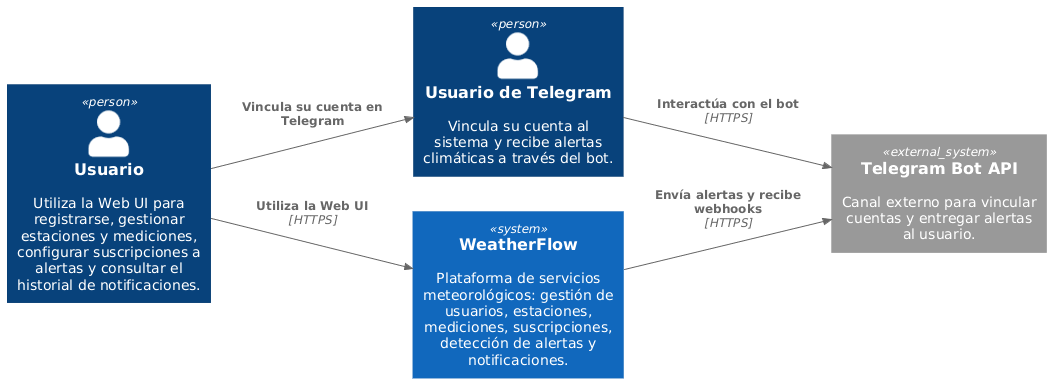
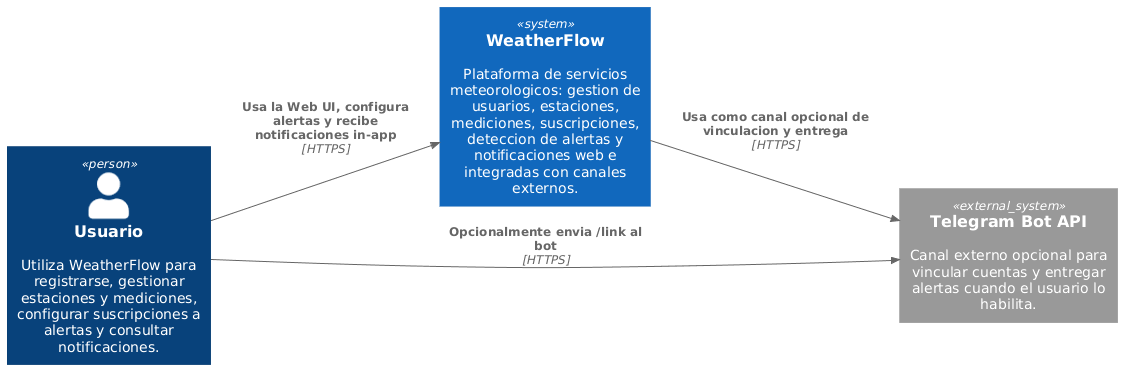
docs: fix C4 context and Atlas guidance

diff --git a/README.md b/README.md
@@ -1,6 +1,6 @@
 # WeatherFlow
 
-WeatherFlow is a distributed weather monitoring backend built with **NestJS 11**, **MongoDB**, and **RabbitMQ**. The repository contains two independently runnable applications: the API service for weather data and alert detection, and the Notification service for notification delivery workflows.
+WeatherFlow is a distributed weather monitoring backend built with **NestJS 11**, **MongoDB Atlas**, and **RabbitMQ**. The repository contains two independently runnable applications: the API service for weather data and alert detection, and the Notification service for notification delivery workflows.
 
 ## Tech Stack
 
@@ -8,7 +8,7 @@ WeatherFlow is a distributed weather monitoring backend built with **NestJS 11**
 | ------------------- | ------------------------------------------------------------ |
 | NestJS 11           | Application framework                                        |
 | TypeScript (strict) | Type-safe backend development                                |
-| MongoDB + Mongoose  | Document database access                                     |
+| MongoDB Atlas + Mongoose | Managed document database access                       |
 | RabbitMQ            | Asynchronous alert messaging                                 |
 | Swagger / OpenAPI   | Interactive API documentation                                |
 | Docker Compose      | Local API, Notification service, and RabbitMQ infrastructure |
@@ -21,6 +21,7 @@ WeatherFlow is a distributed weather monitoring backend built with **NestJS 11**
 | ----------------------------------------------------------------- | -------------------- |
 | [Node.js](https://nodejs.org/)                                    | 20+                  |
 | [Docker Desktop](https://www.docker.com/products/docker-desktop/) | Latest               |
+| MongoDB Atlas                                                     | Free tier is enough  |
 | npm                                                               | Bundled with Node.js |
 
 ## Installation
@@ -50,7 +51,7 @@ npm run start:notifications:dev
 npm run start:web:dev
 ```
 
-Docker Compose starts MongoDB, RabbitMQ, and separate API, Notification service, and Web UI containers. Set `MONGODB_URI` only when you want to override the local Compose Mongo database.
+Docker Compose starts RabbitMQ plus separate API, Notification service, and Web UI containers. Configure `MONGODB_URI` with a MongoDB Atlas connection string so both services use the managed database. The local Mongo container in Compose is only for disposable local/integration scenarios.
 
 - API base URL: `http://localhost:3000`
 - Web UI (extra): `http://localhost:5174` (dev) or `http://localhost:8080` (Docker)
@@ -73,7 +74,7 @@ Docker Compose starts MongoDB, RabbitMQ, and separate API, Notification service,
 | `npm run lint`                     | Run ESLint                                                                           |
 | `npm run test`                     | Run unit tests                                                                       |
 | `npm run test:e2e`                 | Run end-to-end tests                                                                 |
-| `npm run test:integration`         | Run cross-service API, Notification service, RabbitMQ, and MongoDB integration tests |
+| `npm run test:integration`         | Run cross-service API, Notification service, RabbitMQ, and MongoDB Atlas integration tests |
 | `npm run test:int:notifications`   | Run the in-app notification fanout integration test                                  |
 | `npm run test:cov`                 | Run tests with coverage                                                              |
 | `npm run format`                   | Format source and test files with Prettier                                           |
@@ -116,7 +117,7 @@ Copy `.env.example` to `.env` and configure the following values:
 | ---------------------------- | ------------------------------------------------------------------------- | ---------------------------------------------- |
 | `PORT`                       | HTTP server port                                                          | `3000`                                         |
 | `NOTIFICATIONS_PORT`         | Notification service HTTP port                                            | `3001`                                         |
-| `MONGODB_URI`                | MongoDB connection string; Compose defaults to local Mongo when unset     | `mongodb://mongo:27017/weatherflow`            |
+| `MONGODB_URI`                | MongoDB Atlas connection string                                           | `mongodb+srv://.../weatherflow`                |
 | `JWT_SECRET`                 | JWT signing secret                                                        | `your-secret-key`                              |
 | `JWT_EXPIRES_IN`             | JWT expiration window                                                     | `7d`                                           |
 | `CORS_ORIGINS`               | Allowed browser origins for the Web UI                                    | `http://localhost:5174,http://localhost:8080`  |
@@ -152,8 +153,7 @@ npm run test:integration
 
 `npm run test:integration` requires the dedicated `.env.integration` settings
 described in `docs/testing/integration-tests.md`, including a disposable
-MongoDB database and a reachable RabbitMQ broker. For the in-app fanout slice,
-`docker compose up mongo rabbitmq` is enough for the local dependencies.
+MongoDB Atlas database and a reachable RabbitMQ broker.
 
 ### Mock Data
 

diff --git a/docs/setup.md b/docs/setup.md
@@ -5,7 +5,7 @@
 - Node.js 20+
 - npm 9+
 - Docker Desktop
-- MongoDB local via Docker Compose, or MongoDB Atlas if you prefer a remote database
+- MongoDB Atlas account (free tier works)
 - Telegram Bot Token (optional for local notification delivery)
 
 ---
@@ -37,7 +37,7 @@ Minimum local distributed environment:
 ```env
 PORT=3000
 NOTIFICATIONS_PORT=3001
-MONGODB_URI=mongodb://mongo:27017/weatherflow
+MONGODB_URI=mongodb+srv://<user>:<password>@<cluster>.mongodb.net/weatherflow
 JWT_SECRET=your-secret-key-here
 JWT_EXPIRES_IN=7d
 NOTIFICATION_SERVICE_URL=http://notifications:3001
@@ -53,14 +53,16 @@ TELEGRAM_BOT_USERNAME=
 TELEGRAM_WEBHOOK_SECRET=
 ```
 
-### MongoDB URI
+### MongoDB Atlas URI
 
-Docker Compose provides a local MongoDB service at `mongodb://mongo:27017/weatherflow`. To use Atlas instead:
+Use MongoDB Atlas as the normal WeatherFlow database:
 
 1. Create a free cluster at [mongodb.com/atlas](https://mongodb.com/atlas).
 2. Create a database user.
 3. Whitelist your IP address, or use `0.0.0.0/0` only for development.
 4. Copy the connection string into `MONGODB_URI`.
+
+The local MongoDB service in `docker-compose.yml` is for disposable local and integration scenarios. For the distributed environment used by the application docs, keep `MONGODB_URI` pointed at Atlas.
 
 ---
 
@@ -78,7 +80,6 @@ Local URLs:
 | Swagger UI                  | `http://localhost:3000/api/docs`        |
 | OpenAPI JSON                | `http://localhost:3000/api/docs-json`   |
 | Notification service health | `http://localhost:3001/health`          |
-| MongoDB                     | `mongodb://localhost:27017/weatherflow` |
 | RabbitMQ management UI      | `http://localhost:15672`                |
 
 Open RabbitMQ management and sign in with `RABBITMQ_DEFAULT_USER` / `RABBITMQ_DEFAULT_PASS`.
@@ -120,9 +121,8 @@ Focus unit tests on domain entities, value objects, application services, and in
 
 `npm run test:integration` exercises the Delivery II remote boundaries. It
 requires `.env.integration`, a disposable MongoDB database, RabbitMQ, and
-explicit cleanup consent. `docker compose up mongo rabbitmq` provides the local
-dependencies for the notification fanout integration test. See
-`docs/testing/integration-tests.md`.
+explicit cleanup consent. Use a dedicated MongoDB Atlas test database for these
+tests. See `docs/testing/integration-tests.md`.
 
 ---
 
@@ -173,4 +173,4 @@ Open a pull request into `main`, wait for review, and squash merge after checks 
 - Use value object factory methods instead of direct constructors.
 - Inject repositories through tokens rather than concrete classes.
 - Alert detection remains in the measurement/domain flow.
-- Keep Docker Compose focused on local service orchestration; override `MONGODB_URI` when a managed MongoDB dependency is needed.
+- Keep Docker Compose focused on local service orchestration; managed dependencies like MongoDB Atlas stay external for normal development.

diff --git a/docs/testing/integration-tests.md b/docs/testing/integration-tests.md
@@ -10,7 +10,7 @@ The suite starts test instances of the API and Notification Nest applications in
 the Jest process, each bound to an ephemeral localhost port. It connects those
 apps to real remote boundaries:
 
-- MongoDB through `MONGODB_URI` (local Compose Mongo by default)
+- MongoDB Atlas through `MONGODB_URI`
 - RabbitMQ through `RABBITMQ_URL`
 - API-to-Notification HTTP through the API proxy client
 - Notification alert delivery through an injected fake notifier
@@ -21,7 +21,7 @@ Copy `.env.integration.example` to `.env.integration` and fill in disposable
 test resources:
 
 ```bash
-MONGODB_URI=mongodb://127.0.0.1:27017/weatherflow_integration
+MONGODB_URI=mongodb+srv://<user>:<password>@<cluster>.mongodb.net/weatherflow_integration
 WEATHERFLOW_INTEGRATION_ALLOW_DB_CLEANUP=true
 RABBITMQ_URL=amqp://weatherflow:weatherflow@localhost:5672
 RABBITMQ_ALERT_EXCHANGE=weatherflow.integration.alerts
@@ -43,8 +43,8 @@ cleans these test collections before and after each test:
 - `user_notification_profiles`
 - `notifications`
 
-Use the local Compose Mongo service, or a dedicated remote test database. Do not
-point this suite at a development or production database.
+Use a dedicated MongoDB Atlas test database. Do not point this suite at a
+development or production database.
 
 RabbitMQ queues and exchanges are suffixed with a per-test UUID. The harness
 purges them before each test and deletes them after the applications shut down.

diff --git a/docs/architecture/c4/architecture.md b/docs/architecture/c4/architecture.md
@@ -6,7 +6,7 @@ Documentacion de **WeatherFlow Delivery II**: plataforma distribuida con API, No
 
 Fuente: [c4_level_1_context.plantuml](c4_level_1_context.plantuml).
 
-WeatherFlow se modela como **caja negra** (`System`). En contexto solo aparece **Telegram Bot API** como sistema externo. Los actores son **Usuario** (Web UI) y **Usuario de Telegram** (misma persona al vincular Telegram). API, Web UI, Notification service, RabbitMQ y MongoDB son detalle del nivel 2.
+WeatherFlow se modela como **caja negra** (`System`). El actor principal es el **Usuario**, que usa la Web UI, gestiona alertas y recibe notificaciones in-app. **Telegram Bot API** aparece solo como canal externo opcional para vinculacion y entrega cuando el usuario lo habilita. API, Web UI, Notification service, RabbitMQ y MongoDB son detalle del nivel 2.
 
 ![C4 nivel 1 - Contexto](c4_level_1_context.png)
 

diff --git a/docs/notifications/in-app-migration.md b/docs/notifications/in-app-migration.md
@@ -3,7 +3,7 @@
 Story `S-02.10` adds `deliveryChannels.inApp` to notification profiles. New profiles default it to `true`; existing profiles can be backfilled with the idempotent script below.
 
 ```powershell
-$env:MONGODB_URI = "mongodb://localhost:27017/weatherflow"
+$env:MONGODB_URI = "mongodb+srv://<user>:<password>@<cluster>.mongodb.net/weatherflow"
 npx ts-node scripts/migrations/2026-05-add-in-app-channel.ts
 ```
 
